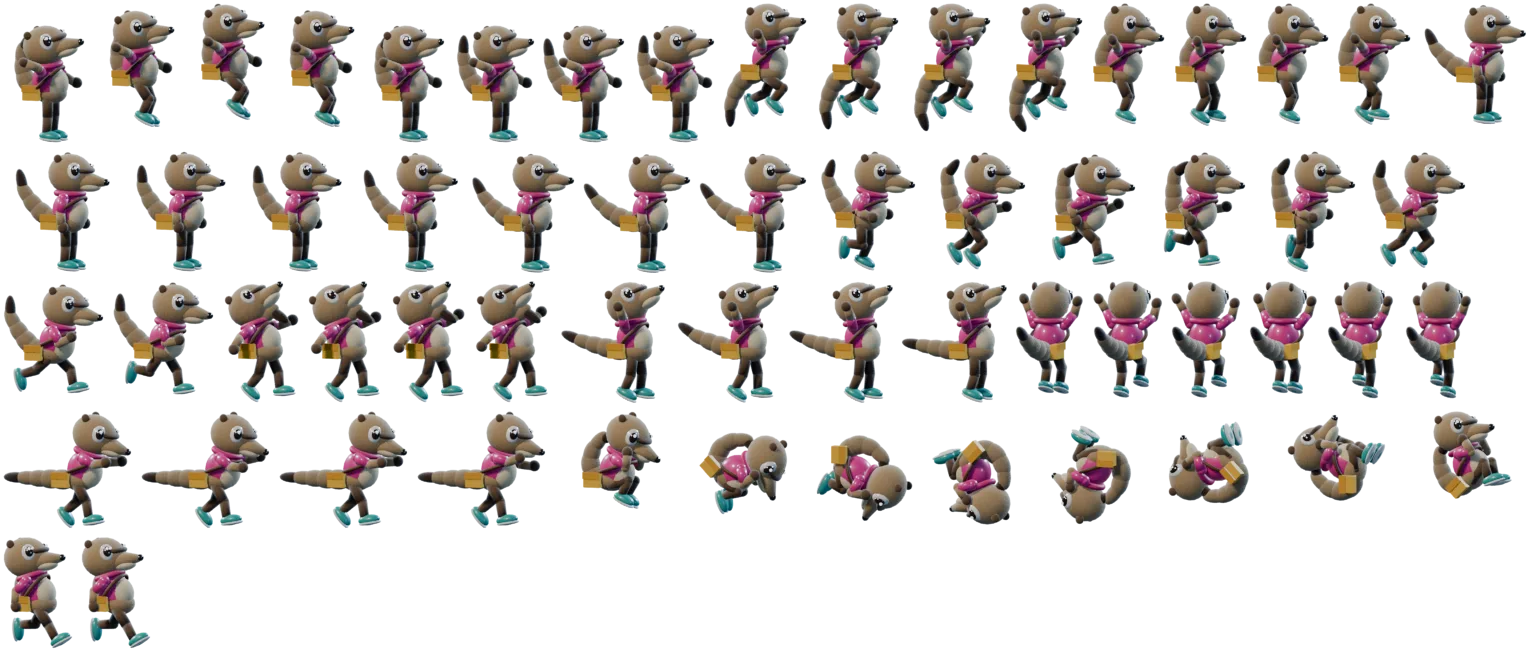
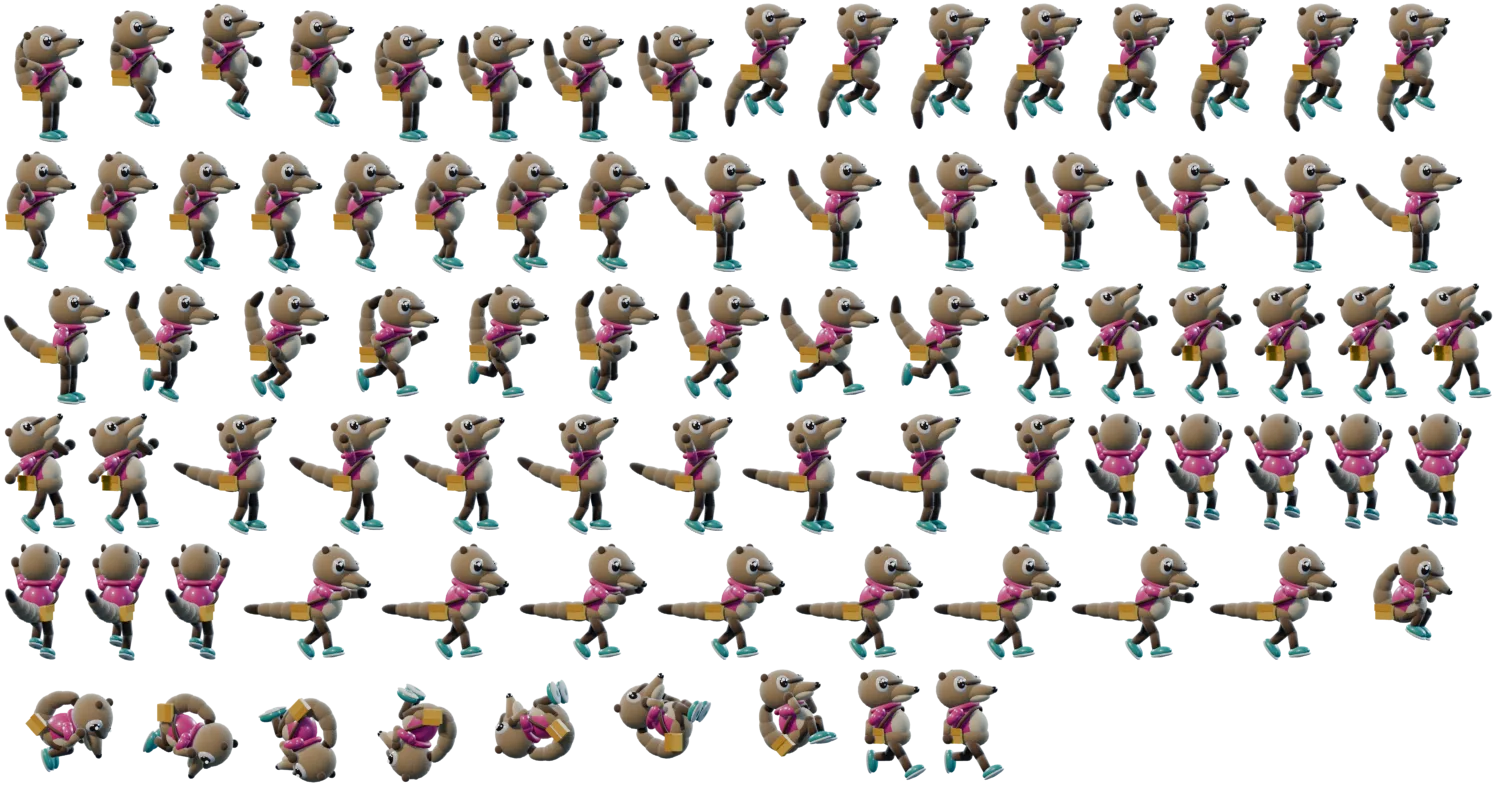
kitplat art: 8+ frames for every hero and foe clip, bosses at 72 px/tile so every atlas fits 1536 px, sharper backdrops (near 1:1 on screen), licence note

diff --git a/apps/web/src/games/kitplat/render/atlas.ts b/apps/web/src/games/kitplat/render/atlas.ts
@@ -7,7 +7,11 @@
 import * as THREE from "three";
 
 export interface Rect { x: number; y: number; w: number; h: number }
-export interface SpriteDef { frames: Rect[]; pivot: { x: number; y: number }; fps: number; loop: boolean; box?: [number, number, number, number] }
+export interface SpriteDef {
+  frames: Rect[]; pivot: { x: number; y: number }; fps: number; loop: boolean; box?: [number, number, number, number];
+  /** Pixels per tile of this sprite when it differs from the atlas's (big bosses are rendered a little coarser). */
+  ppm?: number;
+}
 export interface AtlasManifest {
   format: "pwtv-plat";
   version: 1;

diff --git a/apps/web/src/games/kitplat/render/backdrop.ts b/apps/web/src/games/kitplat/render/backdrop.ts
@@ -35,10 +35,11 @@ export interface LayerSpec {
   fy: number;
 }
 
+/** Heights close to the view (10 tiles) so a 1080p backdrop shows near 1:1 on screen: sharp, not stretched. */
 export const LAYERS: Record<"sky" | "far" | "mid", LayerSpec> = {
-  sky: { height: 20, fx: 0.04, fy: 0.02 },
-  far: { height: 19, fx: 0.16, fy: 0.1 },
-  mid: { height: 16.5, fx: 0.38, fy: 0.3 },
+  sky: { height: 11.5, fx: 0.04, fy: 0.02 },
+  far: { height: 11.5, fx: 0.16, fy: 0.08 },
+  mid: { height: 11, fx: 0.38, fy: 0.22 },
 };
 
 export class Backdrop {

diff --git a/apps/web/src/games/kitplat/render/quads.ts b/apps/web/src/games/kitplat/render/quads.ts
@@ -160,7 +160,8 @@ export class QuadBatch {
   put(s: SpriteDef, f: number, x: number, y: number): boolean {
     const r = s.frames[frameIndex(f, s.frames.length)]!;
     const st = this.style;
-    const w = (r.w / this.ppm) * st.sx * (st.flipX ? -1 : 1), h = (r.h / this.ppm) * st.sy;
+    const ppm = s.ppm ?? this.ppm;
+    const w = (r.w / ppm) * st.sx * (st.flipX ? -1 : 1), h = (r.h / ppm) * st.sy;
     return this.write(r, x, y, w, h, s.pivot.x, s.pivot.y);
   }
 

diff --git a/apps/web/src/games/kitplat/render/view.ts b/apps/web/src/games/kitplat/render/view.ts
@@ -94,7 +94,7 @@ export class PlatView {
       this.vignette = new Vignette(30);
       this.scene.add(this.glow.mesh, this.vignette.mesh);
       if (assets.fg) {
-        this.fg = new Backdrop(assets.fg, { height: 15, fx: 1.35, fy: 1.1 }, 20);
+        this.fg = new Backdrop(assets.fg, { height: 10.5, fx: 1.35, fy: 1.1 }, 20);
         this.fg.mesh.material.uniforms.alpha!.value = 0.92;
         this.scene.add(this.fg.mesh);
       }

diff --git a/tools/blender/kitplat/plat_creatures.py b/tools/blender/kitplat/plat_creatures.py
@@ -38,7 +38,7 @@ class Creature:
 class Crab(Creature):
     """Monsoon walker: a rain crab in a little yellow sou'wester."""
     w, h = 1.3, 1.0
-    clips = [("walk", 6, 10, True), ("squash", 1, 1, True)]
+    clips = [("walk", 8, 12, True), ("squash", 1, 1, True)]
 
     def __init__(self, shell="#d9502f", hat="#ffcc1a"):
         self.root = J("crab")
@@ -77,7 +77,7 @@ class Crab(Creature):
 
 class Frog(Creature):
     w, h = 1.1, 1.4
-    clips = [("idle", 2, 3, True), ("jump", 3, 8, False)]
+    clips = [("idle", 8, 6, True), ("jump", 8, 12, False)]
 
     def __init__(self, skin="#3f9a3a", belly="#cfe39a", spots=None):
         self.root = J("frog")
@@ -103,21 +103,33 @@ class Frog(Creature):
 
     def pose(self, clip, t):
         if clip == "idle":
-            P.pose(self.body, (0, 0, 0), scale=(1, 1, 1))
-            self.throat.scale = (0.12 * (1 + 0.5 * t), 0.13 * (1 + 0.5 * t), 0.08 * (1 + 0.6 * t))
+            puff = 0.5 + 0.5 * math.sin(2 * math.pi * t)
+            P.pose(self.body, (0, 0, 0), loc=(0, 0, 0), scale=(1, 1, 1 - 0.03 * puff))
+            self.throat.scale = (0.12 * (1 + 0.5 * puff), 0.13 * (1 + 0.5 * puff), 0.08 * (1 + 0.6 * puff))
             for j in self.legs:
                 P.pose(j, (0, 0, 0))
             return
-        crouch, stretch = t < 0.3, t > 0.3
-        P.pose(self.body, (0, -10 if stretch else 5, 0), loc=(0, 0, 0.0 if crouch else 0.15), scale=(1.1, 1, 0.8) if crouch else (0.92, 1, 1.15))
+        # crouch (t < 0.25), spring up and stretch (0.25..0.6), tuck for the landing (0.6..1)
+        if t < 0.25:
+            k = t / 0.25
+            P.pose(self.body, (0, 5 * k, 0), loc=(0, 0, 0), scale=(1 + 0.12 * k, 1, 1 - 0.2 * k))
+            leg = 0
+        elif t < 0.6:
+            k = (t - 0.25) / 0.35
+            P.pose(self.body, (0, -10 * k, 0), loc=(0, 0, 0.15 * k), scale=(1 - 0.08 * k, 1, 1 + 0.15 * k))
+            leg = 70 * k
+        else:
+            k = (t - 0.6) / 0.4
+            P.pose(self.body, (0, -10 + 10 * k, 0), loc=(0, 0, 0.15 - 0.1 * k), scale=(0.92 + 0.08 * k, 1, 1.15 - 0.15 * k))
+            leg = 70 - 60 * k
         for j in self.legs:
-            P.pose(j, (0, 0 if crouch else 70, 0))
+            P.pose(j, (0, leg, 0))
 
 
 class Bird(Creature):
     """Flyers: a crow (monsoon), a grumpy paper lantern (festival), a bat (step-well)."""
     w, h = 1.4, 1.2
-    clips = [("fly", 6, 12, True)]
+    clips = [("fly", 8, 14, True)]
 
     def __init__(self, kind="crow"):
         self.kind = kind
@@ -168,7 +180,7 @@ class Bird(Creature):
 class Pangolin(Creature):
     """Curler: an armoured pangolin that rolls into a ball when stomped."""
     w, h = 1.4, 1.0
-    clips = [("walk", 6, 8, True), ("ball", 4, 14, True)]
+    clips = [("walk", 8, 10, True), ("ball", 8, 18, True)]
 
     def __init__(self, scale_col="#8a6a4a", skin="#d8b08a"):
         self.root = J("pangolin")
@@ -211,7 +223,7 @@ class Pangolin(Creature):
 class Pot(Creature):
     """Festival walker: a waddling clay pot with a painted band."""
     w, h = 1.1, 1.1
-    clips = [("walk", 6, 10, True), ("squash", 1, 1, True)]
+    clips = [("walk", 8, 12, True), ("squash", 1, 1, True)]
 
     def __init__(self):
         self.root = J("pot")

diff --git a/tools/blender/kitplat/plat_common.py b/tools/blender/kitplat/plat_common.py
@@ -370,7 +370,7 @@ class Sheet:
         self.sprites: list[dict] = []
 
     def add(self, sid: str, frames: list[np.ndarray], pivot_px: tuple[float, float], fps: float = 10, loop: bool = True,
-            pad: int = 3, crop: bool = True, box: list[float] | None = None):
+            pad: int = 3, crop: bool = True, box: list[float] | None = None, ppm: float | None = None):
         frames = [atlas.clean_alpha(f, 4 / 255) for f in frames]
         if crop:
             x0, y0, x1, y1 = atlas.union_bbox(frames, pad=pad)
@@ -378,7 +378,7 @@ class Sheet:
             x0, y0, x1, y1 = 0, 0, frames[0].shape[1], frames[0].shape[0]
         cells = [np.ascontiguousarray(f[y0:y1, x0:x1]) for f in frames]
         w, h = x1 - x0, y1 - y0
-        self.sprites.append(dict(id=sid, cells=cells, w=w, h=h, fps=fps, loop=loop, box=box,
+        self.sprites.append(dict(id=sid, cells=cells, w=w, h=h, fps=fps, loop=loop, box=box, ppm=ppm,
                                  pivot=(round((pivot_px[0] - x0) / w, 4), round((pivot_px[1] - y0) / h, 4))))
         log(f"  {sid}: {len(frames)} x {w}x{h}")
 
@@ -426,7 +426,8 @@ class Sheet:
             "format": "pwtv-plat", "version": 1, "name": self.name, "image": f"{self.name}.webp", "lite": f"{self.name}-lite.webp" if big else None,
             "size": {"w": int(sheet.shape[1]), "h": int(sheet.shape[0])}, "ppm": self.ppm,
             "sprites": {s["id"]: {"frames": [s["rects"][i] for i in range(len(s["cells"]))], "pivot": {"x": s["pivot"][0], "y": s["pivot"][1]},
-                                  "fps": s["fps"], "loop": s["loop"], **({"box": s["box"]} if s["box"] else {})} for s in self.sprites},
+                                  "fps": s["fps"], "loop": s["loop"], **({"box": s["box"]} if s["box"] else {}),
+                                  **({"ppm": s["ppm"]} if s["ppm"] else {})} for s in self.sprites},
         }
         with open(os.path.join(out_dir, f"{self.name}.json"), "w") as fh:
             json.dump(man, fh, separators=(",", ":"))

diff --git a/tools/blender/kitplat/plat_foes.py b/tools/blender/kitplat/plat_foes.py
@@ -18,6 +18,7 @@ import plat_common as P  # noqa: E402
 import plat_creatures as K  # noqa: E402
 
 PPM = 96
+BOSS_PPM = 72  # bosses are big: a little less detail keeps every world's foes in one ≤ 1536 px atlas
 
 
 def main():
@@ -29,8 +30,8 @@ def main():
     cam = P.side_camera((0, 0, 0), 1.0, elevation=8)
     sheet = P.Sheet(f"foes-{world}", PPM)
 
-    def frame(w, h, cz):
-        P.setup(round(w * PPM), round(h * PPM), samples=16)
+    def frame(w, h, cz, ppm=PPM):
+        P.setup(round(w * ppm), round(h * ppm), samples=16)
         cam.data.ortho_scale = max(w, h)
         el = math.radians(8)
         cam.location = (0, -40 * math.cos(el), cz + 40 * math.sin(el))
@@ -51,12 +52,12 @@ def main():
     P.clear_scene_objects()
     boss = spec["boss"]()
     for clip, n, fps, loop in boss.clips:
-        pv = frame(boss.w, boss.h, boss.h / 2 - 0.2)
+        pv = frame(boss.w, boss.h, boss.h / 2 - 0.2, BOSS_PPM)
         frames = []
         for k in range(n):
             boss.pose(clip, k / n if loop else k / max(1, n - 1))
             frames.append(P.render_rgba())
-        sheet.add(f"boss-{clip}", frames, pv, fps, loop)
+        sheet.add(f"boss-{clip}", frames, pv, fps, loop, ppm=BOSS_PPM)
     sheet.save(out, max_w=1500, preview=preview)
 
 

diff --git a/tools/blender/kitplat/plat_bosses.py b/tools/blender/kitplat/plat_bosses.py
@@ -12,7 +12,7 @@ import math
 import plat_common as P
 import plat_rig as R
 
-CLIPS = [("idle", 6, 8, True), ("move", 8, 12, True), ("attack", 4, 10, False), ("hurt", 2, 8, True), ("dizzy", 6, 10, True)]
+CLIPS = [("idle", 8, 8, True), ("move", 8, 12, True), ("attack", 8, 14, False), ("hurt", 8, 14, True), ("dizzy", 8, 10, True)]
 
 
 def stars(parent, z):
@@ -56,7 +56,7 @@ class BipedBoss:
         elif clip == "move":
             rig.apply(R.clip_pose("run", t, k, 8))
         elif clip == "hurt":
-            rig.apply(R.clip_pose("hurt", 0.6 + 0.4 * t, 2, 4))
+            rig.apply(R.clip_pose("hurt", 0.5 + 0.5 * math.sin(math.pi * t), 2, 4))
         elif clip == "attack":
             wind = t < 0.5
             rig.apply(dict(arm=(20, 160 if wind else 60), elbow=(20, 70 if wind else 10), spread=(10, 30), thigh=(-20, 25), knee=(25, 20),

diff --git a/tools/blender/kitplat/plat_rig.py b/tools/blender/kitplat/plat_rig.py
@@ -122,9 +122,9 @@ def clip_pose(clip: str, t: float, k: int, n: int) -> dict:
 
 # clip name -> (frames, fps, loop)
 CLIPS = {
-    "idle": (8, 8, True), "run": (8, 14, True), "jump": (4, 10, False), "fall": (4, 10, True), "hurt": (4, 12, False),
-    "victory": (8, 10, True), "climb": (6, 10, True), "hang": (4, 6, True), "flip": (8, 18, True), "skid": (2, 8, True),
-    "push": (4, 8, True),
+    "idle": (8, 8, True), "run": (8, 14, True), "jump": (8, 16, False), "fall": (8, 12, True), "hurt": (8, 16, False),
+    "victory": (8, 10, True), "climb": (8, 12, True), "hang": (8, 8, True), "flip": (8, 18, True), "skid": (2, 8, True),
+    "push": (8, 10, True),
 }
 
 

diff --git a/tools/blender/kitplat/plat_heroes.py b/tools/blender/kitplat/plat_heroes.py
@@ -195,7 +195,7 @@ def main():
             rig.apply(R.clip_pose(clip, t, k, n))
             frames.append(P.render_rgba())
         sheet.add(clip, frames, pivot, fps, loop)
-    sheet.save(out, max_w=1536, preview=preview)
+    sheet.save(out, max_w=1500, preview=preview)
 
 
 if __name__ == "__main__":
